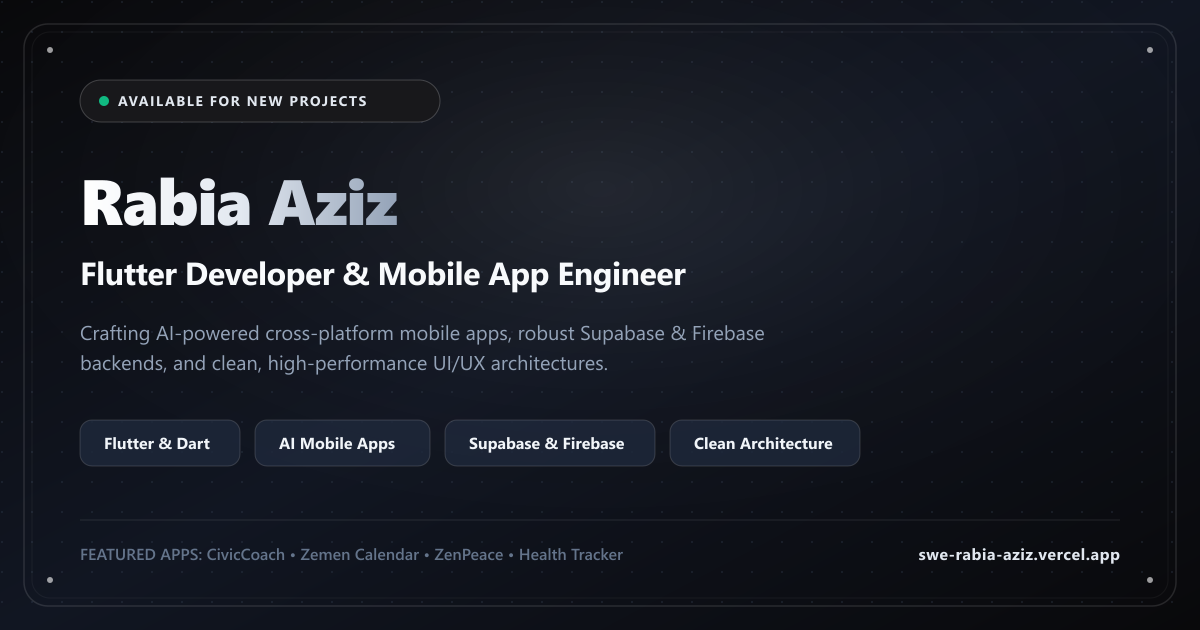
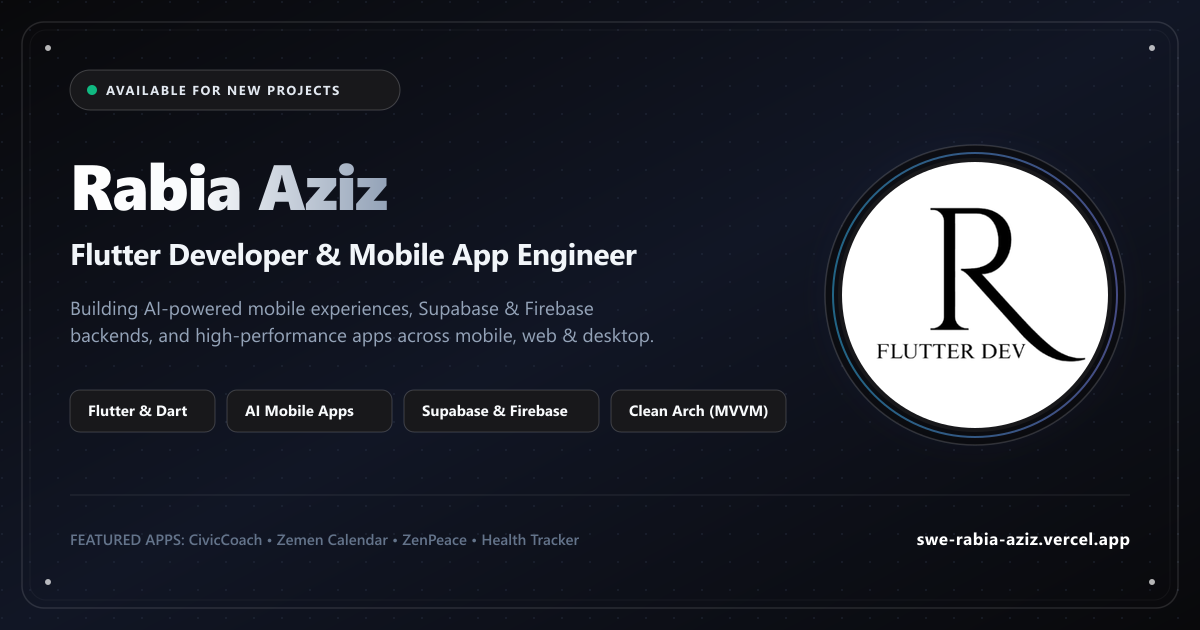
Refresh branding assets and OG image

diff --git a/scripts/generate-og-image.js b/scripts/generate-og-image.js
@@ -2,131 +2,177 @@ const fs = require('fs');
 const path = require('path');
 const sharp = require('sharp');
 
-async function generateOgImage() {
+async function generateOgImageWithLogo() {
   const width = 1200;
   const height = 630;
+  const logoSize = 270;
+  const logoX = 840;
+  const logoY = 160;
 
-  // Modern, high-end monochrome obsidian aesthetic matching the portfolio
+  // 1. Create a circular mask for the logo with smooth edges
+  const circleMask = Buffer.from(
+    `<svg width="${logoSize}" height="${logoSize}">
+      <circle cx="${logoSize / 2}" cy="${logoSize / 2}" r="${logoSize / 2 - 2}" fill="#ffffff"/>
+    </svg>`
+  );
+
+  const roundedLogo = await sharp(path.join(__dirname, '..', 'public', 'images', 'Logo.png'))
+    .resize(logoSize, logoSize, { fit: 'cover' })
+    .composite([
+      {
+        input: circleMask,
+        blend: 'dest-in',
+      },
+    ])
+    .png()
+    .toBuffer();
+
+  // 2. Base SVG background with rich branding, text, and futuristic metallic aesthetic
   const svg = `
   <svg width="${width}" height="${height}" viewBox="0 0 ${width} ${height}" xmlns="http://www.w3.org/2000/svg">
     <defs>
       <linearGradient id="bg" x1="0%" y1="0%" x2="100%" y2="100%">
         <stop offset="0%" stop-color="#09090b"/>
-        <stop offset="50%" stop-color="#111622"/>
+        <stop offset="50%" stop-color="#111625"/>
         <stop offset="100%" stop-color="#09090b"/>
       </linearGradient>
-      
+
       <linearGradient id="silver-text" x1="0%" y1="0%" x2="100%" y2="0%">
         <stop offset="0%" stop-color="#ffffff"/>
-        <stop offset="50%" stop-color="#e2e8f0"/>
+        <stop offset="40%" stop-color="#f8fafc"/>
         <stop offset="100%" stop-color="#94a3b8"/>
       </linearGradient>
 
-      <linearGradient id="accent-glow" x1="0%" y1="0%" x2="100%" y2="0%">
-        <stop offset="0%" stop-color="#38bdf8" stop-opacity="0.8"/>
-        <stop offset="100%" stop-color="#818cf8" stop-opacity="0.8"/>
+      <linearGradient id="badge-glow" x1="0%" y1="0%" x2="100%" y2="0%">
+        <stop offset="0%" stop-color="#38bdf8"/>
+        <stop offset="100%" stop-color="#818cf8"/>
       </linearGradient>
 
-      <radialGradient id="center-glow" cx="50%" cy="30%" r="60%">
-        <stop offset="0%" stop-color="#ffffff" stop-opacity="0.08"/>
+      <radialGradient id="logo-glow" cx="50%" cy="50%" r="50%">
+        <stop offset="0%" stop-color="#38bdf8" stop-opacity="0.25"/>
+        <stop offset="60%" stop-color="#818cf8" stop-opacity="0.12"/>
         <stop offset="100%" stop-color="#000000" stop-opacity="0"/>
       </radialGradient>
 
-      <pattern id="grid" width="30" height="30" patternUnits="userSpaceOnUse">
-        <circle cx="2" cy="2" r="1" fill="#334155" opacity="0.4"/>
+      <pattern id="grid" width="28" height="28" patternUnits="userSpaceOnUse">
+        <circle cx="2" cy="2" r="1" fill="#334155" opacity="0.35"/>
       </pattern>
     </defs>
 
-    <!-- Background -->
+    <!-- Background Layers -->
     <rect width="${width}" height="${height}" fill="url(#bg)"/>
     <rect width="${width}" height="${height}" fill="url(#grid)"/>
-    <rect width="${width}" height="${height}" fill="url(#center-glow)"/>
 
-    <!-- Outer Decorative Border Frame -->
-    <rect x="24" y="24" width="${width - 48}" height="${height - 48}" rx="24" fill="none" stroke="#ffffff" stroke-opacity="0.12" stroke-width="1.5"/>
-    <rect x="32" y="32" width="${width - 64}" height="${height - 64}" rx="18" fill="none" stroke="#ffffff" stroke-opacity="0.05" stroke-width="1"/>
+    <!-- Decorative Outer Borders -->
+    <rect x="22" y="22" width="${width - 44}" height="${height - 44}" rx="22" fill="none" stroke="#ffffff" stroke-opacity="0.12" stroke-width="1.5"/>
+    <rect x="30" y="30" width="${width - 60}" height="${height - 60}" rx="16" fill="none" stroke="#ffffff" stroke-opacity="0.04" stroke-width="1"/>
 
-    <!-- Corner Aesthetic Accents -->
-    <circle cx="50" cy="50" r="3" fill="#ffffff" opacity="0.6"/>
-    <circle cx="${width - 50}" cy="50" r="3" fill="#ffffff" opacity="0.6"/>
-    <circle cx="50" cy="${height - 50}" r="3" fill="#ffffff" opacity="0.6"/>
-    <circle cx="${width - 50}" cy="${height - 50}" r="3" fill="#ffffff" opacity="0.6"/>
+    <!-- Corner Aesthetic Nodes -->
+    <circle cx="48" cy="48" r="3" fill="#ffffff" opacity="0.7"/>
+    <circle cx="${width - 48}" cy="48" r="3" fill="#ffffff" opacity="0.7"/>
+    <circle cx="48" cy="${height - 48}" r="3" fill="#ffffff" opacity="0.7"/>
+    <circle cx="${width - 48}" cy="${height - 48}" r="3" fill="#ffffff" opacity="0.7"/>
 
-    <!-- Top Badge Pill -->
-    <g transform="translate(80, 80)">
-      <rect width="360" height="42" rx="21" fill="#18181b" stroke="#ffffff" stroke-opacity="0.2" stroke-width="1"/>
-      <circle cx="24" cy="21" r="5" fill="#10b981"/>
-      <text x="38" y="26" font-family="-apple-system, BlinkMacSystemFont, 'Segoe UI', Roboto, sans-serif" font-size="14" font-weight="700" fill="#e2e8f0" letter-spacing="1.5">AVAILABLE FOR NEW PROJECTS</text>
+    <!-- Top Badge -->
+    <g transform="translate(70, 70)">
+      <rect width="330" height="40" rx="20" fill="#18181b" stroke="#ffffff" stroke-opacity="0.2" stroke-width="1"/>
+      <circle cx="22" cy="20" r="5" fill="#10b981"/>
+      <text x="36" y="25" font-family="-apple-system, BlinkMacSystemFont, 'Segoe UI', Roboto, sans-serif" font-size="13" font-weight="700" fill="#e2e8f0" letter-spacing="1.5">AVAILABLE FOR NEW PROJECTS</text>
     </g>
 
-    <!-- Main Title -->
-    <text x="80" y="225" font-family="-apple-system, BlinkMacSystemFont, 'Segoe UI', Roboto, sans-serif" font-size="64" font-weight="900" fill="url(#silver-text)" letter-spacing="-1">
+    <!-- LEFT CONTENT: Titles & Bio -->
+    <text x="70" y="210" font-family="-apple-system, BlinkMacSystemFont, 'Segoe UI', Roboto, sans-serif" font-size="64" font-weight="900" fill="url(#silver-text)" letter-spacing="-1">
       Rabia Aziz
     </text>
 
-    <!-- Role Subheading -->
-    <text x="80" y="285" font-family="-apple-system, BlinkMacSystemFont, 'Segoe UI', Roboto, sans-serif" font-size="32" font-weight="700" fill="#f8fafc" letter-spacing="-0.5">
+    <text x="70" y="265" font-family="-apple-system, BlinkMacSystemFont, 'Segoe UI', Roboto, sans-serif" font-size="30" font-weight="700" fill="#f1f5f9" letter-spacing="-0.5">
       Flutter Developer &amp; Mobile App Engineer
     </text>
 
-    <!-- Tagline description -->
-    <text x="80" y="340" font-family="-apple-system, BlinkMacSystemFont, 'Segoe UI', Roboto, sans-serif" font-size="20" font-weight="400" fill="#94a3b8" letter-spacing="0">
-      Crafting AI-powered cross-platform mobile apps, robust Supabase &amp; Firebase
+    <text x="70" y="315" font-family="-apple-system, BlinkMacSystemFont, 'Segoe UI', Roboto, sans-serif" font-size="19" font-weight="400" fill="#94a3b8">
+      Building AI-powered mobile experiences, Supabase &amp; Firebase
     </text>
-    <text x="80" y="370" font-family="-apple-system, BlinkMacSystemFont, 'Segoe UI', Roboto, sans-serif" font-size="20" font-weight="400" fill="#94a3b8" letter-spacing="0">
-      backends, and clean, high-performance UI/UX architectures.
+    <text x="70" y="342" font-family="-apple-system, BlinkMacSystemFont, 'Segoe UI', Roboto, sans-serif" font-size="19" font-weight="400" fill="#94a3b8">
+      backends, and high-performance apps across mobile, web &amp; desktop.
     </text>
 
-    <!-- Tech Badges -->
-    <g transform="translate(80, 420)">
+    <!-- Tech Skill Badges -->
+    <g transform="translate(70, 390)">
       <!-- Badge 1: Flutter & Dart -->
       <g transform="translate(0, 0)">
-        <rect width="160" height="46" rx="12" fill="#1e293b" fill-opacity="0.8" stroke="#ffffff" stroke-opacity="0.15"/>
-        <text x="24" y="29" font-family="-apple-system, BlinkMacSystemFont, 'Segoe UI', Roboto, sans-serif" font-size="16" font-weight="700" fill="#f1f5f9">Flutter &amp; Dart</text>
+        <rect width="145" height="42" rx="10" fill="#18181b" stroke="#ffffff" stroke-opacity="0.18" stroke-width="1"/>
+        <text x="18" y="26" font-family="-apple-system, BlinkMacSystemFont, 'Segoe UI', Roboto, sans-serif" font-size="15" font-weight="700" fill="#f8fafc">Flutter &amp; Dart</text>
       </g>
-      <!-- Badge 2: AI / ML Integration -->
-      <g transform="translate(175, 0)">
-        <rect width="175" height="46" rx="12" fill="#1e293b" fill-opacity="0.8" stroke="#ffffff" stroke-opacity="0.15"/>
-        <text x="24" y="29" font-family="-apple-system, BlinkMacSystemFont, 'Segoe UI', Roboto, sans-serif" font-size="16" font-weight="700" fill="#f1f5f9">AI Mobile Apps</text>
+      <!-- Badge 2: AI Mobile Apps -->
+      <g transform="translate(157, 0)">
+        <rect width="165" height="42" rx="10" fill="#18181b" stroke="#ffffff" stroke-opacity="0.18" stroke-width="1"/>
+        <text x="18" y="26" font-family="-apple-system, BlinkMacSystemFont, 'Segoe UI', Roboto, sans-serif" font-size="15" font-weight="700" fill="#f8fafc">AI Mobile Apps</text>
       </g>
       <!-- Badge 3: Supabase & Firebase -->
-      <g transform="translate(365, 0)">
-        <rect width="210" height="46" rx="12" fill="#1e293b" fill-opacity="0.8" stroke="#ffffff" stroke-opacity="0.15"/>
-        <text x="24" y="29" font-family="-apple-system, BlinkMacSystemFont, 'Segoe UI', Roboto, sans-serif" font-size="16" font-weight="700" fill="#f1f5f9">Supabase &amp; Firebase</text>
+      <g transform="translate(334, 0)">
+        <rect width="195" height="42" rx="10" fill="#18181b" stroke="#ffffff" stroke-opacity="0.18" stroke-width="1"/>
+        <text x="18" y="26" font-family="-apple-system, BlinkMacSystemFont, 'Segoe UI', Roboto, sans-serif" font-size="15" font-weight="700" fill="#f8fafc">Supabase &amp; Firebase</text>
       </g>
       <!-- Badge 4: Clean Architecture -->
-      <g transform="translate(590, 0)">
-        <rect width="190" height="46" rx="12" fill="#1e293b" fill-opacity="0.8" stroke="#ffffff" stroke-opacity="0.15"/>
-        <text x="24" y="29" font-family="-apple-system, BlinkMacSystemFont, 'Segoe UI', Roboto, sans-serif" font-size="16" font-weight="700" fill="#f1f5f9">Clean Architecture</text>
+      <g transform="translate(541, 0)">
+        <rect width="175" height="42" rx="10" fill="#18181b" stroke="#ffffff" stroke-opacity="0.18" stroke-width="1"/>
+        <text x="18" y="26" font-family="-apple-system, BlinkMacSystemFont, 'Segoe UI', Roboto, sans-serif" font-size="15" font-weight="700" fill="#f8fafc">Clean Arch (MVVM)</text>
       </g>
     </g>
 
-    <!-- Bottom Footer Bar -->
-    <line x1="80" y1="520" x2="${width - 80}" y2="520" stroke="#ffffff" stroke-opacity="0.1" stroke-width="1"/>
-    
-    <g transform="translate(80, 560)">
-      <text x="0" y="0" font-family="-apple-system, BlinkMacSystemFont, 'Segoe UI', Roboto, sans-serif" font-size="16" font-weight="600" fill="#64748b">
+    <!-- RIGHT CONTENT: Glowing Pedestal and Outer Frame for Logo -->
+    <g transform="translate(${logoX + logoSize / 2}, ${logoY + logoSize / 2})">
+      <!-- Ambient Outer Aura Glow -->
+      <circle cx="0" cy="0" r="180" fill="url(#logo-glow)"/>
+
+      <!-- Outer Specular Ring -->
+      <circle cx="0" cy="0" r="150" fill="#09090b" fill-opacity="0.7" stroke="#ffffff" stroke-opacity="0.15" stroke-width="1.5"/>
+
+      <!-- Inner Accent Ring with Cyan / Violet gradient dash -->
+      <circle cx="0" cy="0" r="142" fill="none" stroke="url(#badge-glow)" stroke-opacity="0.5" stroke-width="2"/>
+
+      <!-- Logo Background Plate -->
+      <circle cx="0" cy="0" r="137" fill="#18181b"/>
+    </g>
+
+    <!-- Footer Bar -->
+    <line x1="70" y1="495" x2="${width - 70}" y2="495" stroke="#ffffff" stroke-opacity="0.1" stroke-width="1"/>
+
+    <!-- Featured Apps -->
+    <g transform="translate(70, 545)">
+      <text x="0" y="0" font-family="-apple-system, BlinkMacSystemFont, 'Segoe UI', Roboto, sans-serif" font-size="15" font-weight="600" fill="#64748b">
         FEATURED APPS: CivicCoach • Zemen Calendar • ZenPeace • Health Tracker
       </text>
     </g>
 
-    <g transform="translate(${width - 80}, 560)">
-      <text x="0" y="0" text-anchor="end" font-family="-apple-system, BlinkMacSystemFont, 'Segoe UI', Roboto, sans-serif" font-size="16" font-weight="700" fill="#e2e8f0" letter-spacing="0.5">
+    <!-- Domain Branding -->
+    <g transform="translate(${width - 70}, 545)">
+      <text x="0" y="0" text-anchor="end" font-family="-apple-system, BlinkMacSystemFont, 'Segoe UI', Roboto, sans-serif" font-size="17" font-weight="800" fill="#ffffff" letter-spacing="0.5">
         swe-rabia-aziz.vercel.app
       </text>
     </g>
   </svg>
   `;
 
-  const outputPath = path.join(__dirname, '..', 'public', 'images', 'og-image.png');
-  await sharp(Buffer.from(svg))
-    .png()
-    .toFile(outputPath);
+  const baseImageBuffer = await sharp(Buffer.from(svg)).png().toBuffer();
 
-  console.log(`✅ Generated og-image.png at: ${outputPath}`);
+  const finalImage = await sharp(baseImageBuffer)
+    .composite([
+      {
+        input: roundedLogo,
+        top: logoY,
+        left: logoX,
+      },
+    ])
+    .png()
+    .toBuffer();
+
+  const outputPath = path.join(__dirname, '..', 'public', 'images', 'og-image.png');
+  fs.writeFileSync(outputPath, finalImage);
+  console.log(`✅ Generated og-image.png with Logo at: ${outputPath}`);
 }
 
-generateOgImage().catch((err) => {
-  console.error('❌ Error generating og-image:', err);
+generateOgImageWithLogo().catch((err) => {
+  console.error('❌ Error generating og-image with logo:', err);
   process.exit(1);
 });

diff --git a/app/layout.tsx b/app/layout.tsx
@@ -49,10 +49,15 @@ export const metadata: Metadata = {
   },
   icons: {
     icon: [
-      { url: '/images/Logo.png' },
-      { url: '/images/Logo.png', sizes: '192x192', type: 'image/png' },
+      { url: '/favicon.ico' },
+      { url: '/icon.png', sizes: '192x192', type: 'image/png' },
+      { url: '/images/Logo.png', sizes: '512x512', type: 'image/png' },
     ],
-    apple: [{ url: '/images/Logo.png' }],
+    shortcut: '/favicon.ico',
+    apple: [
+      { url: '/apple-touch-icon.png', sizes: '180x180', type: 'image/png' },
+      { url: '/images/Logo.png' },
+    ],
   },
   openGraph: {
     type: 'website',
